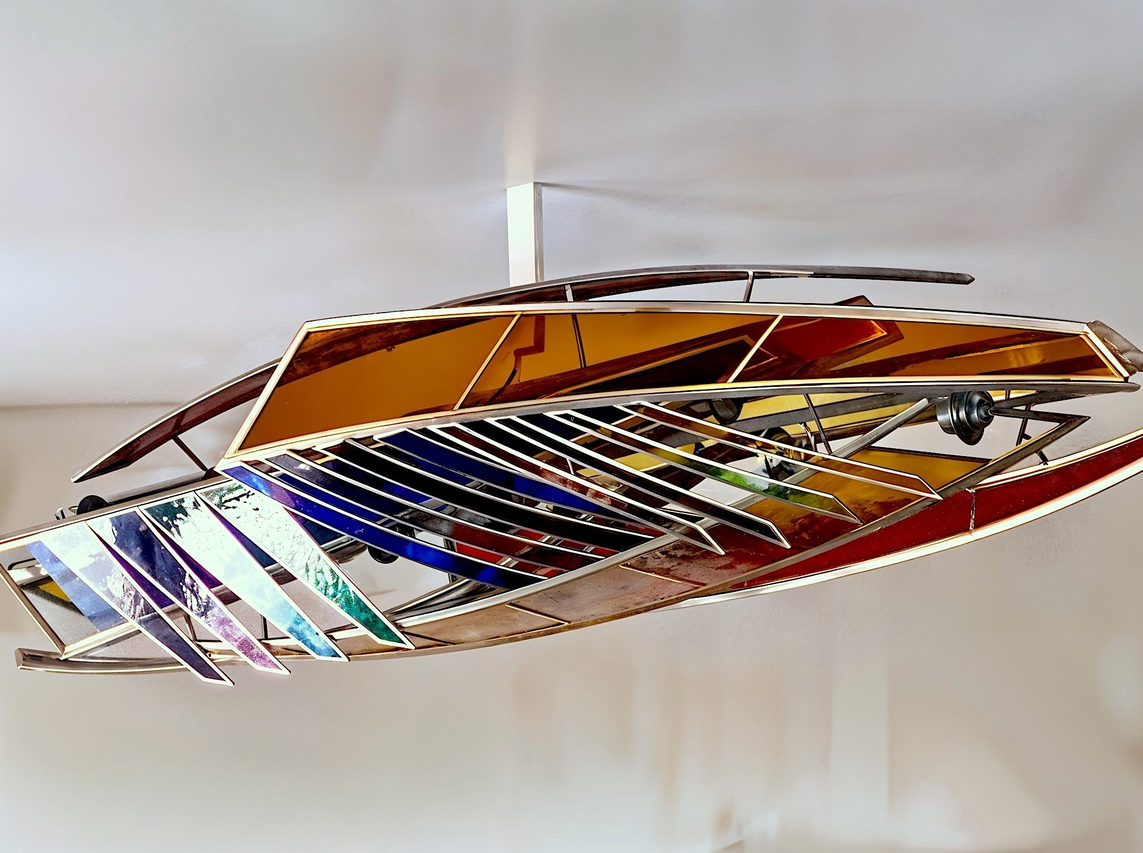
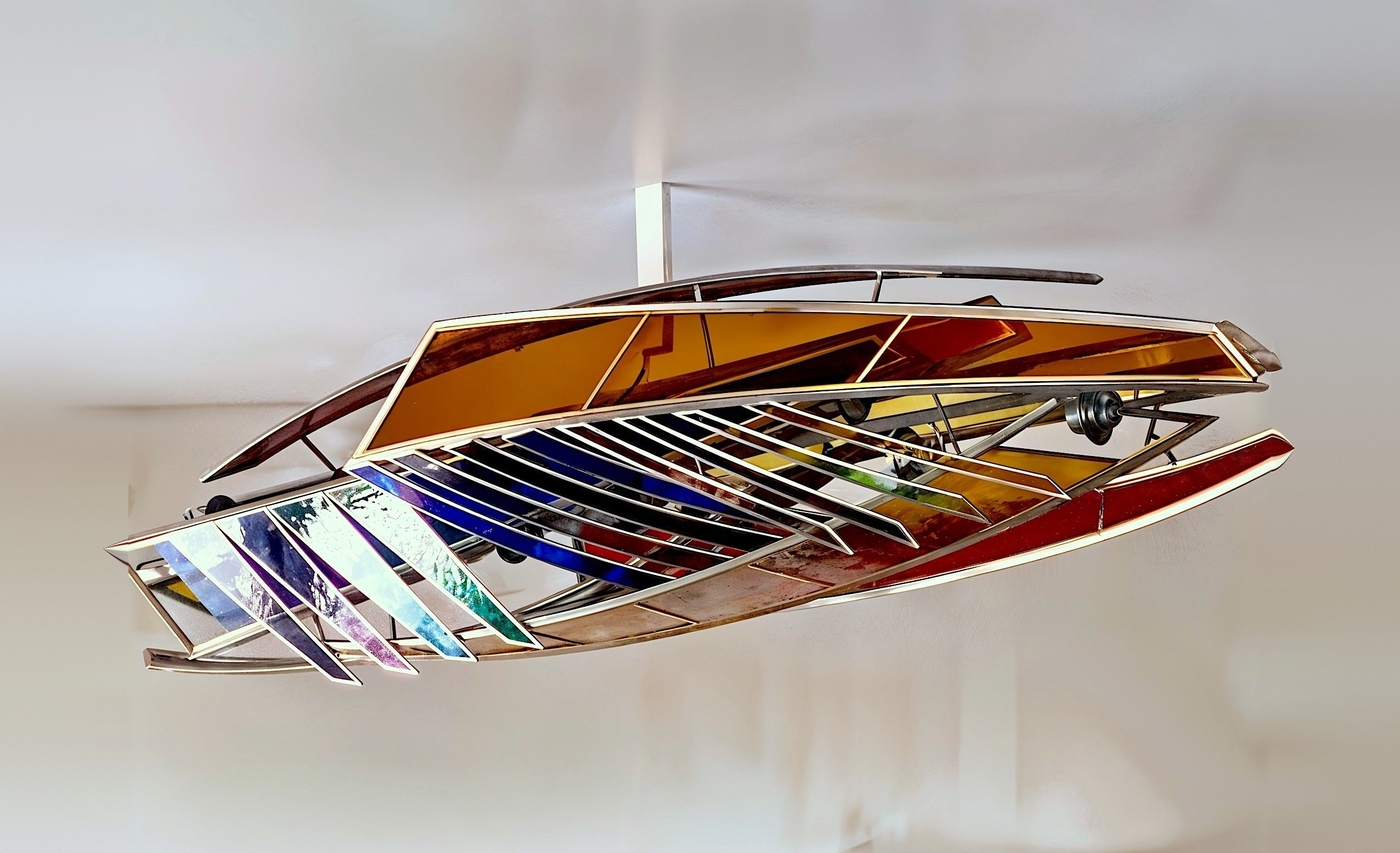
Glass lamp photo: ends completed after Arthi's sketch, free wall on both sides
The cut ends close smoothly (left frame into a point, top-right cap and the red bar into short
rounded tips), continuing the existing lines; plain wall added left and right. Full resolution
(2508 x 1528), all sizes regenerated, ?v bumped.

Claude-Session: https://claude.ai/code/session_01H5rr4vyQfECm49aUQdYU3c

diff --git a/fr/gallery/glass-lamp-sculpture/index.html b/fr/gallery/glass-lamp-sculpture/index.html
@@ -19,7 +19,7 @@
     <meta property="og:title" content="Frame Sculpting · 2021 — Vitrail d&#x27;Arthemii Ionaere">
     <meta property="og:description" content="Une sculpture lumineuse suspendue de la série Frame Sculpting, réalisée selon la même technique mixte que sa devancière de 2020. Du verre coloré…">
     <meta property="og:url" content="https://ionaere.com/fr/gallery/glass-lamp-sculpture/">
-    <meta property="og:image" content="https://ionaere.com/img/opt/2024-12-Arthemii-ionaere-lamp-fgj-1600.jpg?v=3">
+    <meta property="og:image" content="https://ionaere.com/img/opt/2024-12-Arthemii-ionaere-lamp-fgj-1600.jpg?v=4">
     <meta name="twitter:card" content="summary_large_image">
     <link rel="preconnect" href="https://fonts.googleapis.com">
     <link rel="preconnect" href="https://fonts.gstatic.com" crossorigin>
@@ -36,7 +36,7 @@
         }
     </style>
     <script type="application/ld+json">
-{"@context": "https://schema.org", "@type": "VisualArtwork", "name": "Frame Sculpting · 2021", "url": "https://ionaere.com/fr/gallery/glass-lamp-sculpture/", "image": "https://ionaere.com/img/opt/2024-12-Arthemii-ionaere-lamp-fgj-1600.jpg?v=3", "description": "Une sculpture lumineuse suspendue de la série Frame Sculpting, réalisée selon la même technique mixte que sa devancière de 2020. Du verre coloré thermoformé est serti dans une structure métallique à éclairage intégré ; l'œuvre est conçue pour être suspendue au plafond.", "artform": "Stained glass", "artMedium": "Glass", "creator": {"@type": "Person", "@id": "https://ionaere.com/#artist", "name": "Arthemii Ionaere", "url": "https://ionaere.com/"}}
+{"@context": "https://schema.org", "@type": "VisualArtwork", "name": "Frame Sculpting · 2021", "url": "https://ionaere.com/fr/gallery/glass-lamp-sculpture/", "image": "https://ionaere.com/img/opt/2024-12-Arthemii-ionaere-lamp-fgj-1600.jpg?v=4", "description": "Une sculpture lumineuse suspendue de la série Frame Sculpting, réalisée selon la même technique mixte que sa devancière de 2020. Du verre coloré thermoformé est serti dans une structure métallique à éclairage intégré ; l'œuvre est conçue pour être suspendue au plafond.", "artform": "Stained glass", "artMedium": "Glass", "creator": {"@type": "Person", "@id": "https://ionaere.com/#artist", "name": "Arthemii Ionaere", "url": "https://ionaere.com/"}}
     </script>
 </head>
 <body>
@@ -88,7 +88,7 @@
             <div class="container" style="max-width:1000px">
                 <a href="../" style="font-size:0.875rem;color:var(--text-secondary);display:inline-block;margin-bottom:var(--spacing-md)">← Retour à la galerie</a>
                 <div class="photo-view" style="border-radius:12px;overflow:hidden;margin-bottom:var(--spacing-md);background:var(--bg-alt)">
-                    <picture><source type="image/webp" srcset="../../../img/opt/2024-12-Arthemii-ionaere-lamp-fgj-800.webp?v=3 800w, ../../../img/opt/2024-12-Arthemii-ionaere-lamp-fgj-1600.webp?v=3 1600w, ../../../img/opt/2024-12-Arthemii-ionaere-lamp-fgj-2400.webp?v=3 2400w" sizes="(max-width: 1000px) 100vw, 1000px"><img src="../../../img/opt/2024-12-Arthemii-ionaere-lamp-fgj-1600.jpg?v=3" alt="Frame Sculpting · 2021 — Arthemii Ionaere" style="width:100%;display:block"></picture>
+                    <picture><source type="image/webp" srcset="../../../img/opt/2024-12-Arthemii-ionaere-lamp-fgj-800.webp?v=4 800w, ../../../img/opt/2024-12-Arthemii-ionaere-lamp-fgj-1600.webp?v=4 1600w, ../../../img/opt/2024-12-Arthemii-ionaere-lamp-fgj-2400.webp?v=4 2400w" sizes="(max-width: 1000px) 100vw, 1000px"><img src="../../../img/opt/2024-12-Arthemii-ionaere-lamp-fgj-1600.jpg?v=4" alt="Frame Sculpting · 2021 — Arthemii Ionaere" style="width:100%;display:block"></picture>
                     <a class="photo-view__arrow photo-view__arrow--prev" href="../prism-sculpture/" rel="prev" aria-label="Previous photo: Falling Shadows à Enter the Void"><svg viewBox="0 0 24 24" aria-hidden="true"><path d="M15 5l-7 7 7 7"/></svg></a>
                     <a class="photo-view__arrow photo-view__arrow--next" href="../glass-artwork-detail/" rel="next" aria-label="Next photo: Frame Sculpting · 2018"><svg viewBox="0 0 24 24" aria-hidden="true"><path d="M9 5l7 7-7 7"/></svg></a>
                 </div>

diff --git a/it/gallery/glass-lamp-sculpture/index.html b/it/gallery/glass-lamp-sculpture/index.html
@@ -19,7 +19,7 @@
     <meta property="og:title" content="Frame Sculpting · 2021 — Vetrata artistica di Arthemii Ionaere">
     <meta property="og:description" content="Una scultura luminosa sospesa della serie Frame Sculpting, realizzata con la stessa tecnica mista della precedente del 2020. Vetro colorato curvato è…">
     <meta property="og:url" content="https://ionaere.com/it/gallery/glass-lamp-sculpture/">
-    <meta property="og:image" content="https://ionaere.com/img/opt/2024-12-Arthemii-ionaere-lamp-fgj-1600.jpg?v=3">
+    <meta property="og:image" content="https://ionaere.com/img/opt/2024-12-Arthemii-ionaere-lamp-fgj-1600.jpg?v=4">
     <meta name="twitter:card" content="summary_large_image">
     <link rel="preconnect" href="https://fonts.googleapis.com">
     <link rel="preconnect" href="https://fonts.gstatic.com" crossorigin>
@@ -36,7 +36,7 @@
         }
     </style>
     <script type="application/ld+json">
-{"@context": "https://schema.org", "@type": "VisualArtwork", "name": "Frame Sculpting · 2021", "url": "https://ionaere.com/it/gallery/glass-lamp-sculpture/", "image": "https://ionaere.com/img/opt/2024-12-Arthemii-ionaere-lamp-fgj-1600.jpg?v=3", "description": "Una scultura luminosa sospesa della serie Frame Sculpting, realizzata con la stessa tecnica mista della precedente del 2020. Vetro colorato curvato è incastonato in una struttura metallica con illuminazione integrata; l'opera è pensata per essere appesa al soffitto.", "artform": "Stained glass", "artMedium": "Glass", "creator": {"@type": "Person", "@id": "https://ionaere.com/#artist", "name": "Arthemii Ionaere", "url": "https://ionaere.com/"}}
+{"@context": "https://schema.org", "@type": "VisualArtwork", "name": "Frame Sculpting · 2021", "url": "https://ionaere.com/it/gallery/glass-lamp-sculpture/", "image": "https://ionaere.com/img/opt/2024-12-Arthemii-ionaere-lamp-fgj-1600.jpg?v=4", "description": "Una scultura luminosa sospesa della serie Frame Sculpting, realizzata con la stessa tecnica mista della precedente del 2020. Vetro colorato curvato è incastonato in una struttura metallica con illuminazione integrata; l'opera è pensata per essere appesa al soffitto.", "artform": "Stained glass", "artMedium": "Glass", "creator": {"@type": "Person", "@id": "https://ionaere.com/#artist", "name": "Arthemii Ionaere", "url": "https://ionaere.com/"}}
     </script>
 </head>
 <body>
@@ -88,7 +88,7 @@
             <div class="container" style="max-width:1000px">
                 <a href="../" style="font-size:0.875rem;color:var(--text-secondary);display:inline-block;margin-bottom:var(--spacing-md)">← Torna alla galleria</a>
                 <div class="photo-view" style="border-radius:12px;overflow:hidden;margin-bottom:var(--spacing-md);background:var(--bg-alt)">
-                    <picture><source type="image/webp" srcset="../../../img/opt/2024-12-Arthemii-ionaere-lamp-fgj-800.webp?v=3 800w, ../../../img/opt/2024-12-Arthemii-ionaere-lamp-fgj-1600.webp?v=3 1600w, ../../../img/opt/2024-12-Arthemii-ionaere-lamp-fgj-2400.webp?v=3 2400w" sizes="(max-width: 1000px) 100vw, 1000px"><img src="../../../img/opt/2024-12-Arthemii-ionaere-lamp-fgj-1600.jpg?v=3" alt="Frame Sculpting · 2021 — Arthemii Ionaere" style="width:100%;display:block"></picture>
+                    <picture><source type="image/webp" srcset="../../../img/opt/2024-12-Arthemii-ionaere-lamp-fgj-800.webp?v=4 800w, ../../../img/opt/2024-12-Arthemii-ionaere-lamp-fgj-1600.webp?v=4 1600w, ../../../img/opt/2024-12-Arthemii-ionaere-lamp-fgj-2400.webp?v=4 2400w" sizes="(max-width: 1000px) 100vw, 1000px"><img src="../../../img/opt/2024-12-Arthemii-ionaere-lamp-fgj-1600.jpg?v=4" alt="Frame Sculpting · 2021 — Arthemii Ionaere" style="width:100%;display:block"></picture>
                     <a class="photo-view__arrow photo-view__arrow--prev" href="../prism-sculpture/" rel="prev" aria-label="Previous photo: Falling Shadows a Enter the Void"><svg viewBox="0 0 24 24" aria-hidden="true"><path d="M15 5l-7 7 7 7"/></svg></a>
                     <a class="photo-view__arrow photo-view__arrow--next" href="../glass-artwork-detail/" rel="next" aria-label="Next photo: Frame Sculpting · 2018"><svg viewBox="0 0 24 24" aria-hidden="true"><path d="M9 5l7 7-7 7"/></svg></a>
                 </div>

diff --git a/es/gallery/glass-lamp-sculpture/index.html b/es/gallery/glass-lamp-sculpture/index.html
@@ -19,7 +19,7 @@
     <meta property="og:title" content="Frame Sculpting · 2021 — Vitral de Arthemii Ionaere">
     <meta property="og:description" content="Una escultura de luz suspendida de la serie Frame Sculpting, realizada con la misma técnica mixta de vitral que su predecesora de 2020. Vidrio de color…">
     <meta property="og:url" content="https://ionaere.com/es/gallery/glass-lamp-sculpture/">
-    <meta property="og:image" content="https://ionaere.com/img/opt/2024-12-Arthemii-ionaere-lamp-fgj-1600.jpg?v=3">
+    <meta property="og:image" content="https://ionaere.com/img/opt/2024-12-Arthemii-ionaere-lamp-fgj-1600.jpg?v=4">
     <meta name="twitter:card" content="summary_large_image">
     <link rel="preconnect" href="https://fonts.googleapis.com">
     <link rel="preconnect" href="https://fonts.gstatic.com" crossorigin>
@@ -36,7 +36,7 @@
         }
     </style>
     <script type="application/ld+json">
-{"@context": "https://schema.org", "@type": "VisualArtwork", "name": "Frame Sculpting · 2021", "url": "https://ionaere.com/es/gallery/glass-lamp-sculpture/", "image": "https://ionaere.com/img/opt/2024-12-Arthemii-ionaere-lamp-fgj-1600.jpg?v=3", "description": "Una escultura de luz suspendida de la serie Frame Sculpting, realizada con la misma técnica mixta de vitral que su predecesora de 2020. Vidrio de color curvado se engasta en una estructura metálica con iluminación integrada; está pensada para colgar del techo.", "artform": "Stained glass", "artMedium": "Glass", "creator": {"@type": "Person", "@id": "https://ionaere.com/#artist", "name": "Arthemii Ionaere", "url": "https://ionaere.com/"}}
+{"@context": "https://schema.org", "@type": "VisualArtwork", "name": "Frame Sculpting · 2021", "url": "https://ionaere.com/es/gallery/glass-lamp-sculpture/", "image": "https://ionaere.com/img/opt/2024-12-Arthemii-ionaere-lamp-fgj-1600.jpg?v=4", "description": "Una escultura de luz suspendida de la serie Frame Sculpting, realizada con la misma técnica mixta de vitral que su predecesora de 2020. Vidrio de color curvado se engasta en una estructura metálica con iluminación integrada; está pensada para colgar del techo.", "artform": "Stained glass", "artMedium": "Glass", "creator": {"@type": "Person", "@id": "https://ionaere.com/#artist", "name": "Arthemii Ionaere", "url": "https://ionaere.com/"}}
     </script>
 </head>
 <body>
@@ -88,7 +88,7 @@
             <div class="container" style="max-width:1000px">
                 <a href="../" style="font-size:0.875rem;color:var(--text-secondary);display:inline-block;margin-bottom:var(--spacing-md)">← Volver a la galería</a>
                 <div class="photo-view" style="border-radius:12px;overflow:hidden;margin-bottom:var(--spacing-md);background:var(--bg-alt)">
-                    <picture><source type="image/webp" srcset="../../../img/opt/2024-12-Arthemii-ionaere-lamp-fgj-800.webp?v=3 800w, ../../../img/opt/2024-12-Arthemii-ionaere-lamp-fgj-1600.webp?v=3 1600w, ../../../img/opt/2024-12-Arthemii-ionaere-lamp-fgj-2400.webp?v=3 2400w" sizes="(max-width: 1000px) 100vw, 1000px"><img src="../../../img/opt/2024-12-Arthemii-ionaere-lamp-fgj-1600.jpg?v=3" alt="Frame Sculpting · 2021 — Arthemii Ionaere" style="width:100%;display:block"></picture>
+                    <picture><source type="image/webp" srcset="../../../img/opt/2024-12-Arthemii-ionaere-lamp-fgj-800.webp?v=4 800w, ../../../img/opt/2024-12-Arthemii-ionaere-lamp-fgj-1600.webp?v=4 1600w, ../../../img/opt/2024-12-Arthemii-ionaere-lamp-fgj-2400.webp?v=4 2400w" sizes="(max-width: 1000px) 100vw, 1000px"><img src="../../../img/opt/2024-12-Arthemii-ionaere-lamp-fgj-1600.jpg?v=4" alt="Frame Sculpting · 2021 — Arthemii Ionaere" style="width:100%;display:block"></picture>
                     <a class="photo-view__arrow photo-view__arrow--prev" href="../prism-sculpture/" rel="prev" aria-label="Previous photo: Falling Shadows en Enter the Void"><svg viewBox="0 0 24 24" aria-hidden="true"><path d="M15 5l-7 7 7 7"/></svg></a>
                     <a class="photo-view__arrow photo-view__arrow--next" href="../glass-artwork-detail/" rel="next" aria-label="Next photo: Frame Sculpting · 2018"><svg viewBox="0 0 24 24" aria-hidden="true"><path d="M9 5l7 7-7 7"/></svg></a>
                 </div>

diff --git a/de/index.html b/de/index.html
@@ -3456,7 +3456,7 @@
         <div class="section__divider"></div>
 
         <!-- ========== GALLERY ========== -->
-        <section class="section" id="gallery" data-thumbs="../img/opt/2024-12-Arthemii-Ionaere-visual-light-installation-with-deep-coloured-shado-scaled-800.webp|../|../img/opt/2024-12-Arthemii-ionaere-lamp-fgj-800.webp?v=3|../img/opt/2024-12-Arthemii-Ionaere-Shteryit-800.webp|../img/opt/2024-12-IMG_9199-Enhanced-NR-scaled-800.webp|../img/opt/2024-12-IMG_9484-Enhanced-NR-scaled-800.webp|../img/opt/2024-05-IMG_0179-scaled-800.webp?v=2|../img/opt/2024-05-IMG_7198-scaled-800.webp?v=3" data-thumb="../img/opt/2024-12-Arthemii-Ionaere-visual-light-installation-with-deep-coloured-shado-scaled-800.webp">
+        <section class="section" id="gallery" data-thumbs="../img/opt/2024-12-Arthemii-Ionaere-visual-light-installation-with-deep-coloured-shado-scaled-800.webp|../|../img/opt/2024-12-Arthemii-ionaere-lamp-fgj-800.webp?v=4|../img/opt/2024-12-Arthemii-Ionaere-Shteryit-800.webp|../img/opt/2024-12-IMG_9199-Enhanced-NR-scaled-800.webp|../img/opt/2024-12-IMG_9484-Enhanced-NR-scaled-800.webp|../img/opt/2024-05-IMG_0179-scaled-800.webp?v=2|../img/opt/2024-05-IMG_7198-scaled-800.webp?v=3" data-thumb="../img/opt/2024-12-Arthemii-Ionaere-visual-light-installation-with-deep-coloured-shado-scaled-800.webp">
             <div class="container">
                 <header class="section__header reveal">
                     <div class="section__label" data-i18n="gallery_label">Galerie</div>
@@ -3476,7 +3476,7 @@
                     </div>
                     <div class="gallery__row gallery__row--wide">
                         <div class="gallery__item" style="--r:1.333"><picture><source type="image/webp" data-srcset="../img/opt/2024-12-Arthemii-Ionaere-prizmas-800.webp 800w, ../img/opt/2024-12-Arthemii-Ionaere-prizmas-1600.webp 1600w, ../img/opt/2024-12-Arthemii-Ionaere-prizmas-2400.webp 2400w" sizes="(max-width: 640px) 90vw, (max-width: 1024px) 50vw, 800px"><img data-src="../img/opt/2024-12-Arthemii-Ionaere-prizmas-1600.jpg" alt="Prism sculpture — stained glass by Arthemii Ionaere" loading="lazy" decoding="async"></picture><span class="gallery__caption">Falling Shadows bei Enter the Void <span>· 2023</span></span></div>
-                        <div class="gallery__item" style="--r:1.34"><picture><source type="image/webp" data-srcset="../img/opt/2024-12-Arthemii-ionaere-lamp-fgj-800.webp?v=3 800w, ../img/opt/2024-12-Arthemii-ionaere-lamp-fgj-1600.webp?v=3 1600w, ../img/opt/2024-12-Arthemii-ionaere-lamp-fgj-2400.webp?v=3 2400w" sizes="(max-width: 640px) 90vw, (max-width: 1024px) 50vw, 800px"><img data-src="../img/opt/2024-12-Arthemii-ionaere-lamp-fgj-1600.jpg?v=3" alt="Glass lamp sculpture — stained glass by Arthemii Ionaere" loading="lazy" decoding="async"></picture><span class="gallery__caption">Frame Sculpting · 2021</span></div>
+                        <div class="gallery__item" style="--r:1.34"><picture><source type="image/webp" data-srcset="../img/opt/2024-12-Arthemii-ionaere-lamp-fgj-800.webp?v=4 800w, ../img/opt/2024-12-Arthemii-ionaere-lamp-fgj-1600.webp?v=4 1600w, ../img/opt/2024-12-Arthemii-ionaere-lamp-fgj-2400.webp?v=4 2400w" sizes="(max-width: 640px) 90vw, (max-width: 1024px) 50vw, 800px"><img data-src="../img/opt/2024-12-Arthemii-ionaere-lamp-fgj-1600.jpg?v=4" alt="Glass lamp sculpture — stained glass by Arthemii Ionaere" loading="lazy" decoding="async"></picture><span class="gallery__caption">Frame Sculpting · 2021</span></div>
                         <div class="gallery__item" style="--r:1.333"><picture><source type="image/webp" data-srcset="../img/opt/2024-02-06C52AD8-82B2-46BB-B951-3B6548D050B4-800.webp 800w, ../img/opt/2024-02-06C52AD8-82B2-46BB-B951-3B6548D050B4-1600.webp 1600w, ../img/opt/2024-02-06C52AD8-82B2-46BB-B951-3B6548D050B4-2400.webp 2400w" sizes="(max-width: 640px) 90vw, (max-width: 1024px) 50vw, 800px"><img data-src="../img/opt/2024-02-06C52AD8-82B2-46BB-B951-3B6548D050B4-1600.jpg" alt="Glass artwork detail — stained glass by Arthemii Ionaere" loading="lazy" decoding="async"></picture><span class="gallery__caption">Frame Sculpting · 2018</span></div>
                     </div>
                     <div class="gallery__row gallery__row--wide">

diff --git a/es/index.html b/es/index.html
@@ -3456,7 +3456,7 @@
         <div class="section__divider"></div>
 
         <!-- ========== GALLERY ========== -->
-        <section class="section" id="gallery" data-thumbs="../img/opt/2024-12-Arthemii-Ionaere-visual-light-installation-with-deep-coloured-shado-scaled-800.webp|../|../img/opt/2024-12-Arthemii-ionaere-lamp-fgj-800.webp?v=3|../img/opt/2024-12-Arthemii-Ionaere-Shteryit-800.webp|../img/opt/2024-12-IMG_9199-Enhanced-NR-scaled-800.webp|../img/opt/2024-12-IMG_9484-Enhanced-NR-scaled-800.webp|../img/opt/2024-05-IMG_0179-scaled-800.webp?v=2|../img/opt/2024-05-IMG_7198-scaled-800.webp?v=3" data-thumb="../img/opt/2024-12-Arthemii-Ionaere-visual-light-installation-with-deep-coloured-shado-scaled-800.webp">
+        <section class="section" id="gallery" data-thumbs="../img/opt/2024-12-Arthemii-Ionaere-visual-light-installation-with-deep-coloured-shado-scaled-800.webp|../|../img/opt/2024-12-Arthemii-ionaere-lamp-fgj-800.webp?v=4|../img/opt/2024-12-Arthemii-Ionaere-Shteryit-800.webp|../img/opt/2024-12-IMG_9199-Enhanced-NR-scaled-800.webp|../img/opt/2024-12-IMG_9484-Enhanced-NR-scaled-800.webp|../img/opt/2024-05-IMG_0179-scaled-800.webp?v=2|../img/opt/2024-05-IMG_7198-scaled-800.webp?v=3" data-thumb="../img/opt/2024-12-Arthemii-Ionaere-visual-light-installation-with-deep-coloured-shado-scaled-800.webp">
             <div class="container">
                 <header class="section__header reveal">
                     <div class="section__label" data-i18n="gallery_label">Galería</div>
@@ -3476,7 +3476,7 @@
                     </div>
                     <div class="gallery__row gallery__row--wide">
                         <div class="gallery__item" style="--r:1.333"><picture><source type="image/webp" data-srcset="../img/opt/2024-12-Arthemii-Ionaere-prizmas-800.webp 800w, ../img/opt/2024-12-Arthemii-Ionaere-prizmas-1600.webp 1600w, ../img/opt/2024-12-Arthemii-Ionaere-prizmas-2400.webp 2400w" sizes="(max-width: 640px) 90vw, (max-width: 1024px) 50vw, 800px"><img data-src="../img/opt/2024-12-Arthemii-Ionaere-prizmas-1600.jpg" alt="Prism sculpture — stained glass by Arthemii Ionaere" loading="lazy" decoding="async"></picture><span class="gallery__caption">Falling Shadows en Enter the Void <span>· 2023</span></span></div>
-                        <div class="gallery__item" style="--r:1.34"><picture><source type="image/webp" data-srcset="../img/opt/2024-12-Arthemii-ionaere-lamp-fgj-800.webp?v=3 800w, ../img/opt/2024-12-Arthemii-ionaere-lamp-fgj-1600.webp?v=3 1600w, ../img/opt/2024-12-Arthemii-ionaere-lamp-fgj-2400.webp?v=3 2400w" sizes="(max-width: 640px) 90vw, (max-width: 1024px) 50vw, 800px"><img data-src="../img/opt/2024-12-Arthemii-ionaere-lamp-fgj-1600.jpg?v=3" alt="Glass lamp sculpture — stained glass by Arthemii Ionaere" loading="lazy" decoding="async"></picture><span class="gallery__caption">Frame Sculpting · 2021</span></div>
+                        <div class="gallery__item" style="--r:1.34"><picture><source type="image/webp" data-srcset="../img/opt/2024-12-Arthemii-ionaere-lamp-fgj-800.webp?v=4 800w, ../img/opt/2024-12-Arthemii-ionaere-lamp-fgj-1600.webp?v=4 1600w, ../img/opt/2024-12-Arthemii-ionaere-lamp-fgj-2400.webp?v=4 2400w" sizes="(max-width: 640px) 90vw, (max-width: 1024px) 50vw, 800px"><img data-src="../img/opt/2024-12-Arthemii-ionaere-lamp-fgj-1600.jpg?v=4" alt="Glass lamp sculpture — stained glass by Arthemii Ionaere" loading="lazy" decoding="async"></picture><span class="gallery__caption">Frame Sculpting · 2021</span></div>
                         <div class="gallery__item" style="--r:1.333"><picture><source type="image/webp" data-srcset="../img/opt/2024-02-06C52AD8-82B2-46BB-B951-3B6548D050B4-800.webp 800w, ../img/opt/2024-02-06C52AD8-82B2-46BB-B951-3B6548D050B4-1600.webp 1600w, ../img/opt/2024-02-06C52AD8-82B2-46BB-B951-3B6548D050B4-2400.webp 2400w" sizes="(max-width: 640px) 90vw, (max-width: 1024px) 50vw, 800px"><img data-src="../img/opt/2024-02-06C52AD8-82B2-46BB-B951-3B6548D050B4-1600.jpg" alt="Glass artwork detail — stained glass by Arthemii Ionaere" loading="lazy" decoding="async"></picture><span class="gallery__caption">Frame Sculpting · 2018</span></div>
                     </div>
                     <div class="gallery__row gallery__row--wide">

diff --git a/fr/index.html b/fr/index.html
@@ -3456,7 +3456,7 @@
         <div class="section__divider"></div>
 
         <!-- ========== GALLERY ========== -->
-        <section class="section" id="gallery" data-thumbs="../img/opt/2024-12-Arthemii-Ionaere-visual-light-installation-with-deep-coloured-shado-scaled-800.webp|../|../img/opt/2024-12-Arthemii-ionaere-lamp-fgj-800.webp?v=3|../img/opt/2024-12-Arthemii-Ionaere-Shteryit-800.webp|../img/opt/2024-12-IMG_9199-Enhanced-NR-scaled-800.webp|../img/opt/2024-12-IMG_9484-Enhanced-NR-scaled-800.webp|../img/opt/2024-05-IMG_0179-scaled-800.webp?v=2|../img/opt/2024-05-IMG_7198-scaled-800.webp?v=3" data-thumb="../img/opt/2024-12-Arthemii-Ionaere-visual-light-installation-with-deep-coloured-shado-scaled-800.webp">
+        <section class="section" id="gallery" data-thumbs="../img/opt/2024-12-Arthemii-Ionaere-visual-light-installation-with-deep-coloured-shado-scaled-800.webp|../|../img/opt/2024-12-Arthemii-ionaere-lamp-fgj-800.webp?v=4|../img/opt/2024-12-Arthemii-Ionaere-Shteryit-800.webp|../img/opt/2024-12-IMG_9199-Enhanced-NR-scaled-800.webp|../img/opt/2024-12-IMG_9484-Enhanced-NR-scaled-800.webp|../img/opt/2024-05-IMG_0179-scaled-800.webp?v=2|../img/opt/2024-05-IMG_7198-scaled-800.webp?v=3" data-thumb="../img/opt/2024-12-Arthemii-Ionaere-visual-light-installation-with-deep-coloured-shado-scaled-800.webp">
             <div class="container">
                 <header class="section__header reveal">
                     <div class="section__label" data-i18n="gallery_label">Galerie</div>
@@ -3476,7 +3476,7 @@
                     </div>
                     <div class="gallery__row gallery__row--wide">
                         <div class="gallery__item" style="--r:1.333"><picture><source type="image/webp" data-srcset="../img/opt/2024-12-Arthemii-Ionaere-prizmas-800.webp 800w, ../img/opt/2024-12-Arthemii-Ionaere-prizmas-1600.webp 1600w, ../img/opt/2024-12-Arthemii-Ionaere-prizmas-2400.webp 2400w" sizes="(max-width: 640px) 90vw, (max-width: 1024px) 50vw, 800px"><img data-src="../img/opt/2024-12-Arthemii-Ionaere-prizmas-1600.jpg" alt="Prism sculpture — stained glass by Arthemii Ionaere" loading="lazy" decoding="async"></picture><span class="gallery__caption">Falling Shadows à Enter the Void <span>· 2023</span></span></div>
-                        <div class="gallery__item" style="--r:1.34"><picture><source type="image/webp" data-srcset="../img/opt/2024-12-Arthemii-ionaere-lamp-fgj-800.webp?v=3 800w, ../img/opt/2024-12-Arthemii-ionaere-lamp-fgj-1600.webp?v=3 1600w, ../img/opt/2024-12-Arthemii-ionaere-lamp-fgj-2400.webp?v=3 2400w" sizes="(max-width: 640px) 90vw, (max-width: 1024px) 50vw, 800px"><img data-src="../img/opt/2024-12-Arthemii-ionaere-lamp-fgj-1600.jpg?v=3" alt="Glass lamp sculpture — stained glass by Arthemii Ionaere" loading="lazy" decoding="async"></picture><span class="gallery__caption">Frame Sculpting · 2021</span></div>
+                        <div class="gallery__item" style="--r:1.34"><picture><source type="image/webp" data-srcset="../img/opt/2024-12-Arthemii-ionaere-lamp-fgj-800.webp?v=4 800w, ../img/opt/2024-12-Arthemii-ionaere-lamp-fgj-1600.webp?v=4 1600w, ../img/opt/2024-12-Arthemii-ionaere-lamp-fgj-2400.webp?v=4 2400w" sizes="(max-width: 640px) 90vw, (max-width: 1024px) 50vw, 800px"><img data-src="../img/opt/2024-12-Arthemii-ionaere-lamp-fgj-1600.jpg?v=4" alt="Glass lamp sculpture — stained glass by Arthemii Ionaere" loading="lazy" decoding="async"></picture><span class="gallery__caption">Frame Sculpting · 2021</span></div>
                         <div class="gallery__item" style="--r:1.333"><picture><source type="image/webp" data-srcset="../img/opt/2024-02-06C52AD8-82B2-46BB-B951-3B6548D050B4-800.webp 800w, ../img/opt/2024-02-06C52AD8-82B2-46BB-B951-3B6548D050B4-1600.webp 1600w, ../img/opt/2024-02-06C52AD8-82B2-46BB-B951-3B6548D050B4-2400.webp 2400w" sizes="(max-width: 640px) 90vw, (max-width: 1024px) 50vw, 800px"><img data-src="../img/opt/2024-02-06C52AD8-82B2-46BB-B951-3B6548D050B4-1600.jpg" alt="Glass artwork detail — stained glass by Arthemii Ionaere" loading="lazy" decoding="async"></picture><span class="gallery__caption">Frame Sculpting · 2018</span></div>
                     </div>
                     <div class="gallery__row gallery__row--wide">

diff --git a/it/index.html b/it/index.html
@@ -3456,7 +3456,7 @@
         <div class="section__divider"></div>
 
         <!-- ========== GALLERY ========== -->
-        <section class="section" id="gallery" data-thumbs="../img/opt/2024-12-Arthemii-Ionaere-visual-light-installation-with-deep-coloured-shado-scaled-800.webp|../|../img/opt/2024-12-Arthemii-ionaere-lamp-fgj-800.webp?v=3|../img/opt/2024-12-Arthemii-Ionaere-Shteryit-800.webp|../img/opt/2024-12-IMG_9199-Enhanced-NR-scaled-800.webp|../img/opt/2024-12-IMG_9484-Enhanced-NR-scaled-800.webp|../img/opt/2024-05-IMG_0179-scaled-800.webp?v=2|../img/opt/2024-05-IMG_7198-scaled-800.webp?v=3" data-thumb="../img/opt/2024-12-Arthemii-Ionaere-visual-light-installation-with-deep-coloured-shado-scaled-800.webp">
+        <section class="section" id="gallery" data-thumbs="../img/opt/2024-12-Arthemii-Ionaere-visual-light-installation-with-deep-coloured-shado-scaled-800.webp|../|../img/opt/2024-12-Arthemii-ionaere-lamp-fgj-800.webp?v=4|../img/opt/2024-12-Arthemii-Ionaere-Shteryit-800.webp|../img/opt/2024-12-IMG_9199-Enhanced-NR-scaled-800.webp|../img/opt/2024-12-IMG_9484-Enhanced-NR-scaled-800.webp|../img/opt/2024-05-IMG_0179-scaled-800.webp?v=2|../img/opt/2024-05-IMG_7198-scaled-800.webp?v=3" data-thumb="../img/opt/2024-12-Arthemii-Ionaere-visual-light-installation-with-deep-coloured-shado-scaled-800.webp">
             <div class="container">
                 <header class="section__header reveal">
                     <div class="section__label" data-i18n="gallery_label">Galleria</div>
@@ -3476,7 +3476,7 @@
                     </div>
                     <div class="gallery__row gallery__row--wide">
                         <div class="gallery__item" style="--r:1.333"><picture><source type="image/webp" data-srcset="../img/opt/2024-12-Arthemii-Ionaere-prizmas-800.webp 800w, ../img/opt/2024-12-Arthemii-Ionaere-prizmas-1600.webp 1600w, ../img/opt/2024-12-Arthemii-Ionaere-prizmas-2400.webp 2400w" sizes="(max-width: 640px) 90vw, (max-width: 1024px) 50vw, 800px"><img data-src="../img/opt/2024-12-Arthemii-Ionaere-prizmas-1600.jpg" alt="Prism sculpture — stained glass by Arthemii Ionaere" loading="lazy" decoding="async"></picture><span class="gallery__caption">Falling Shadows a Enter the Void <span>· 2023</span></span></div>
-                        <div class="gallery__item" style="--r:1.34"><picture><source type="image/webp" data-srcset="../img/opt/2024-12-Arthemii-ionaere-lamp-fgj-800.webp?v=3 800w, ../img/opt/2024-12-Arthemii-ionaere-lamp-fgj-1600.webp?v=3 1600w, ../img/opt/2024-12-Arthemii-ionaere-lamp-fgj-2400.webp?v=3 2400w" sizes="(max-width: 640px) 90vw, (max-width: 1024px) 50vw, 800px"><img data-src="../img/opt/2024-12-Arthemii-ionaere-lamp-fgj-1600.jpg?v=3" alt="Glass lamp sculpture — stained glass by Arthemii Ionaere" loading="lazy" decoding="async"></picture><span class="gallery__caption">Frame Sculpting · 2021</span></div>
+                        <div class="gallery__item" style="--r:1.34"><picture><source type="image/webp" data-srcset="../img/opt/2024-12-Arthemii-ionaere-lamp-fgj-800.webp?v=4 800w, ../img/opt/2024-12-Arthemii-ionaere-lamp-fgj-1600.webp?v=4 1600w, ../img/opt/2024-12-Arthemii-ionaere-lamp-fgj-2400.webp?v=4 2400w" sizes="(max-width: 640px) 90vw, (max-width: 1024px) 50vw, 800px"><img data-src="../img/opt/2024-12-Arthemii-ionaere-lamp-fgj-1600.jpg?v=4" alt="Glass lamp sculpture — stained glass by Arthemii Ionaere" loading="lazy" decoding="async"></picture><span class="gallery__caption">Frame Sculpting · 2021</span></div>
                         <div class="gallery__item" style="--r:1.333"><picture><source type="image/webp" data-srcset="../img/opt/2024-02-06C52AD8-82B2-46BB-B951-3B6548D050B4-800.webp 800w, ../img/opt/2024-02-06C52AD8-82B2-46BB-B951-3B6548D050B4-1600.webp 1600w, ../img/opt/2024-02-06C52AD8-82B2-46BB-B951-3B6548D050B4-2400.webp 2400w" sizes="(max-width: 640px) 90vw, (max-width: 1024px) 50vw, 800px"><img data-src="../img/opt/2024-02-06C52AD8-82B2-46BB-B951-3B6548D050B4-1600.jpg" alt="Glass artwork detail — stained glass by Arthemii Ionaere" loading="lazy" decoding="async"></picture><span class="gallery__caption">Frame Sculpting · 2018</span></div>
                     </div>
                     <div class="gallery__row gallery__row--wide">

diff --git a/de/gallery/glass-lamp-sculpture/index.html b/de/gallery/glass-lamp-sculpture/index.html
@@ -19,7 +19,7 @@
     <meta property="og:title" content="Frame Sculpting · 2021 — Glaskunst von Arthemii Ionaere">
     <meta property="og:description" content="Eine hängende Lichtskulptur aus der Serie Frame Sculpting, gefertigt in derselben Mischtechnik wie ihre Vorgängerin von 2020. Gebogenes Farbglas sitzt in…">
     <meta property="og:url" content="https://ionaere.com/de/gallery/glass-lamp-sculpture/">
-    <meta property="og:image" content="https://ionaere.com/img/opt/2024-12-Arthemii-ionaere-lamp-fgj-1600.jpg?v=3">
+    <meta property="og:image" content="https://ionaere.com/img/opt/2024-12-Arthemii-ionaere-lamp-fgj-1600.jpg?v=4">
     <meta name="twitter:card" content="summary_large_image">
     <link rel="preconnect" href="https://fonts.googleapis.com">
     <link rel="preconnect" href="https://fonts.gstatic.com" crossorigin>
@@ -36,7 +36,7 @@
         }
     </style>
     <script type="application/ld+json">
-{"@context": "https://schema.org", "@type": "VisualArtwork", "name": "Frame Sculpting · 2021", "url": "https://ionaere.com/de/gallery/glass-lamp-sculpture/", "image": "https://ionaere.com/img/opt/2024-12-Arthemii-ionaere-lamp-fgj-1600.jpg?v=3", "description": "Eine hängende Lichtskulptur aus der Serie Frame Sculpting, gefertigt in derselben Mischtechnik wie ihre Vorgängerin von 2020. Gebogenes Farbglas sitzt in einem Metallrahmen mit eingebauter Beleuchtung; die Arbeit ist zum Aufhängen an der Decke gedacht.", "artform": "Stained glass", "artMedium": "Glass", "creator": {"@type": "Person", "@id": "https://ionaere.com/#artist", "name": "Arthemii Ionaere", "url": "https://ionaere.com/"}}
+{"@context": "https://schema.org", "@type": "VisualArtwork", "name": "Frame Sculpting · 2021", "url": "https://ionaere.com/de/gallery/glass-lamp-sculpture/", "image": "https://ionaere.com/img/opt/2024-12-Arthemii-ionaere-lamp-fgj-1600.jpg?v=4", "description": "Eine hängende Lichtskulptur aus der Serie Frame Sculpting, gefertigt in derselben Mischtechnik wie ihre Vorgängerin von 2020. Gebogenes Farbglas sitzt in einem Metallrahmen mit eingebauter Beleuchtung; die Arbeit ist zum Aufhängen an der Decke gedacht.", "artform": "Stained glass", "artMedium": "Glass", "creator": {"@type": "Person", "@id": "https://ionaere.com/#artist", "name": "Arthemii Ionaere", "url": "https://ionaere.com/"}}
     </script>
 </head>
 <body>
@@ -88,7 +88,7 @@
             <div class="container" style="max-width:1000px">
                 <a href="../" style="font-size:0.875rem;color:var(--text-secondary);display:inline-block;margin-bottom:var(--spacing-md)">← Zurück zur Galerie</a>
                 <div class="photo-view" style="border-radius:12px;overflow:hidden;margin-bottom:var(--spacing-md);background:var(--bg-alt)">
-                    <picture><source type="image/webp" srcset="../../../img/opt/2024-12-Arthemii-ionaere-lamp-fgj-800.webp?v=3 800w, ../../../img/opt/2024-12-Arthemii-ionaere-lamp-fgj-1600.webp?v=3 1600w, ../../../img/opt/2024-12-Arthemii-ionaere-lamp-fgj-2400.webp?v=3 2400w" sizes="(max-width: 1000px) 100vw, 1000px"><img src="../../../img/opt/2024-12-Arthemii-ionaere-lamp-fgj-1600.jpg?v=3" alt="Frame Sculpting · 2021 — Arthemii Ionaere" style="width:100%;display:block"></picture>
+                    <picture><source type="image/webp" srcset="../../../img/opt/2024-12-Arthemii-ionaere-lamp-fgj-800.webp?v=4 800w, ../../../img/opt/2024-12-Arthemii-ionaere-lamp-fgj-1600.webp?v=4 1600w, ../../../img/opt/2024-12-Arthemii-ionaere-lamp-fgj-2400.webp?v=4 2400w" sizes="(max-width: 1000px) 100vw, 1000px"><img src="../../../img/opt/2024-12-Arthemii-ionaere-lamp-fgj-1600.jpg?v=4" alt="Frame Sculpting · 2021 — Arthemii Ionaere" style="width:100%;display:block"></picture>
                     <a class="photo-view__arrow photo-view__arrow--prev" href="../prism-sculpture/" rel="prev" aria-label="Previous photo: Falling Shadows bei Enter the Void"><svg viewBox="0 0 24 24" aria-hidden="true"><path d="M15 5l-7 7 7 7"/></svg></a>
                     <a class="photo-view__arrow photo-view__arrow--next" href="../glass-artwork-detail/" rel="next" aria-label="Next photo: Frame Sculpting · 2018"><svg viewBox="0 0 24 24" aria-hidden="true"><path d="M9 5l7 7-7 7"/></svg></a>
                 </div>

diff --git a/gallery/glass-lamp-sculpture/index.html b/gallery/glass-lamp-sculpture/index.html
@@ -19,7 +19,7 @@
     <meta property="og:title" content="Frame Sculpting · 2021 — Stained Glass Art by Arthemii Ionaere">
     <meta property="og:description" content="A suspended light sculpture from the Frame Sculpting series, made in the same mixed stained-glass technique as its 2020 predecessor. Slumped coloured…">
     <meta property="og:url" content="https://ionaere.com/gallery/glass-lamp-sculpture/">
-    <meta property="og:image" content="https://ionaere.com/img/opt/2024-12-Arthemii-ionaere-lamp-fgj-1600.jpg?v=3">
+    <meta property="og:image" content="https://ionaere.com/img/opt/2024-12-Arthemii-ionaere-lamp-fgj-1600.jpg?v=4">
     <meta name="twitter:card" content="summary_large_image">
     <link rel="preconnect" href="https://fonts.googleapis.com">
     <link rel="preconnect" href="https://fonts.gstatic.com" crossorigin>
@@ -36,7 +36,7 @@
         }
     </style>
     <script type="application/ld+json">
-{"@context": "https://schema.org", "@type": "VisualArtwork", "name": "Frame Sculpting · 2021", "url": "https://ionaere.com/gallery/glass-lamp-sculpture/", "image": "https://ionaere.com/img/opt/2024-12-Arthemii-ionaere-lamp-fgj-1600.jpg?v=3", "description": "A suspended light sculpture from the Frame Sculpting series, made in the same mixed stained-glass technique as its 2020 predecessor. Slumped coloured glass is set into a metal frame with lighting built inside; the piece is designed to hang from the ceiling.", "artform": "Stained glass", "artMedium": "Glass", "creator": {"@type": "Person", "@id": "https://ionaere.com/#artist", "name": "Arthemii Ionaere", "url": "https://ionaere.com/"}}
+{"@context": "https://schema.org", "@type": "VisualArtwork", "name": "Frame Sculpting · 2021", "url": "https://ionaere.com/gallery/glass-lamp-sculpture/", "image": "https://ionaere.com/img/opt/2024-12-Arthemii-ionaere-lamp-fgj-1600.jpg?v=4", "description": "A suspended light sculpture from the Frame Sculpting series, made in the same mixed stained-glass technique as its 2020 predecessor. Slumped coloured glass is set into a metal frame with lighting built inside; the piece is designed to hang from the ceiling.", "artform": "Stained glass", "artMedium": "Glass", "creator": {"@type": "Person", "@id": "https://ionaere.com/#artist", "name": "Arthemii Ionaere", "url": "https://ionaere.com/"}}
     </script>
 </head>
 <body>
@@ -88,7 +88,7 @@
             <div class="container" style="max-width:1000px">
                 <a href="../" style="font-size:0.875rem;color:var(--text-secondary);display:inline-block;margin-bottom:var(--spacing-md)">&larr; Back to Gallery</a>
                 <div class="photo-view" style="border-radius:12px;overflow:hidden;margin-bottom:var(--spacing-md);background:var(--bg-alt)">
-                    <picture><source type="image/webp" srcset="../../img/opt/2024-12-Arthemii-ionaere-lamp-fgj-800.webp?v=3 800w, ../../img/opt/2024-12-Arthemii-ionaere-lamp-fgj-1600.webp?v=3 1600w, ../../img/opt/2024-12-Arthemii-ionaere-lamp-fgj-2400.webp?v=3 2400w" sizes="(max-width: 1000px) 100vw, 1000px"><img src="../../img/opt/2024-12-Arthemii-ionaere-lamp-fgj-1600.jpg?v=3" alt="Frame Sculpting · 2021 — Arthemii Ionaere" style="width:100%;display:block"></picture>
+                    <picture><source type="image/webp" srcset="../../img/opt/2024-12-Arthemii-ionaere-lamp-fgj-800.webp?v=4 800w, ../../img/opt/2024-12-Arthemii-ionaere-lamp-fgj-1600.webp?v=4 1600w, ../../img/opt/2024-12-Arthemii-ionaere-lamp-fgj-2400.webp?v=4 2400w" sizes="(max-width: 1000px) 100vw, 1000px"><img src="../../img/opt/2024-12-Arthemii-ionaere-lamp-fgj-1600.jpg?v=4" alt="Frame Sculpting · 2021 — Arthemii Ionaere" style="width:100%;display:block"></picture>
                     <a class="photo-view__arrow photo-view__arrow--prev" href="../prism-sculpture/" rel="prev" aria-label="Previous photo: Falling Shadows at Enter the Void"><svg viewBox="0 0 24 24" aria-hidden="true"><path d="M15 5l-7 7 7 7"/></svg></a>
                     <a class="photo-view__arrow photo-view__arrow--next" href="../glass-artwork-detail/" rel="next" aria-label="Next photo: Frame Sculpting · 2018"><svg viewBox="0 0 24 24" aria-hidden="true"><path d="M9 5l7 7-7 7"/></svg></a>
                 </div>

diff --git a/index.html b/index.html
@@ -3456,7 +3456,7 @@
         <div class="section__divider"></div>
 
         <!-- ========== GALLERY ========== -->
-        <section class="section" id="gallery" data-thumbs="img/opt/2024-12-Arthemii-Ionaere-visual-light-installation-with-deep-coloured-shado-scaled-800.webp|img/opt/2024-12-Arthemii-ionaere-lamp-fgj-800.webp?v=3|img/opt/2024-12-Arthemii-Ionaere-Shteryit-800.webp|img/opt/2024-12-IMG_9199-Enhanced-NR-scaled-800.webp|img/opt/2024-12-IMG_9484-Enhanced-NR-scaled-800.webp|img/opt/2024-05-IMG_0179-scaled-800.webp?v=2|img/opt/2024-05-IMG_7198-scaled-800.webp?v=3" data-thumb="img/opt/2024-12-Arthemii-Ionaere-visual-light-installation-with-deep-coloured-shado-scaled-800.webp">
+        <section class="section" id="gallery" data-thumbs="img/opt/2024-12-Arthemii-Ionaere-visual-light-installation-with-deep-coloured-shado-scaled-800.webp|img/opt/2024-12-Arthemii-ionaere-lamp-fgj-800.webp?v=4|img/opt/2024-12-Arthemii-Ionaere-Shteryit-800.webp|img/opt/2024-12-IMG_9199-Enhanced-NR-scaled-800.webp|img/opt/2024-12-IMG_9484-Enhanced-NR-scaled-800.webp|img/opt/2024-05-IMG_0179-scaled-800.webp?v=2|img/opt/2024-05-IMG_7198-scaled-800.webp?v=3" data-thumb="img/opt/2024-12-Arthemii-Ionaere-visual-light-installation-with-deep-coloured-shado-scaled-800.webp">
             <div class="container">
                 <header class="section__header reveal">
                     <div class="section__label" data-i18n="gallery_label">Gallery</div>
@@ -3476,7 +3476,7 @@
                     </div>
                     <div class="gallery__row gallery__row--wide">
                         <div class="gallery__item" style="--r:1.333"><picture><source type="image/webp" data-srcset="img/opt/2024-12-Arthemii-Ionaere-prizmas-800.webp 800w, img/opt/2024-12-Arthemii-Ionaere-prizmas-1600.webp 1600w, img/opt/2024-12-Arthemii-Ionaere-prizmas-2400.webp 2400w" sizes="(max-width: 640px) 90vw, (max-width: 1024px) 50vw, 800px"><img data-src="img/opt/2024-12-Arthemii-Ionaere-prizmas-1600.jpg" alt="Prism sculpture — stained glass by Arthemii Ionaere" loading="lazy" decoding="async"></picture><span class="gallery__caption">Falling Shadows at Enter the Void <span>· 2023</span></span></div>
-                        <div class="gallery__item" style="--r:1.34"><picture><source type="image/webp" data-srcset="img/opt/2024-12-Arthemii-ionaere-lamp-fgj-800.webp?v=3 800w, img/opt/2024-12-Arthemii-ionaere-lamp-fgj-1600.webp?v=3 1600w, img/opt/2024-12-Arthemii-ionaere-lamp-fgj-2400.webp?v=3 2400w" sizes="(max-width: 640px) 90vw, (max-width: 1024px) 50vw, 800px"><img data-src="img/opt/2024-12-Arthemii-ionaere-lamp-fgj-1600.jpg?v=3" alt="Glass lamp sculpture — stained glass by Arthemii Ionaere" loading="lazy" decoding="async"></picture><span class="gallery__caption">Frame Sculpting · 2021</span></div>
+                        <div class="gallery__item" style="--r:1.34"><picture><source type="image/webp" data-srcset="img/opt/2024-12-Arthemii-ionaere-lamp-fgj-800.webp?v=4 800w, img/opt/2024-12-Arthemii-ionaere-lamp-fgj-1600.webp?v=4 1600w, img/opt/2024-12-Arthemii-ionaere-lamp-fgj-2400.webp?v=4 2400w" sizes="(max-width: 640px) 90vw, (max-width: 1024px) 50vw, 800px"><img data-src="img/opt/2024-12-Arthemii-ionaere-lamp-fgj-1600.jpg?v=4" alt="Glass lamp sculpture — stained glass by Arthemii Ionaere" loading="lazy" decoding="async"></picture><span class="gallery__caption">Frame Sculpting · 2021</span></div>
                         <div class="gallery__item" style="--r:1.333"><picture><source type="image/webp" data-srcset="img/opt/2024-02-06C52AD8-82B2-46BB-B951-3B6548D050B4-800.webp 800w, img/opt/2024-02-06C52AD8-82B2-46BB-B951-3B6548D050B4-1600.webp 1600w, img/opt/2024-02-06C52AD8-82B2-46BB-B951-3B6548D050B4-2400.webp 2400w" sizes="(max-width: 640px) 90vw, (max-width: 1024px) 50vw, 800px"><img data-src="img/opt/2024-02-06C52AD8-82B2-46BB-B951-3B6548D050B4-1600.jpg" alt="Glass artwork detail — stained glass by Arthemii Ionaere" loading="lazy" decoding="async"></picture><span class="gallery__caption">Frame Sculpting · 2018</span></div>
                     </div>
                     <div class="gallery__row gallery__row--wide">

diff --git a/fr/gallery/index.html b/fr/gallery/index.html
@@ -229,7 +229,7 @@
                         <div class="gslide__count" aria-hidden="true">15 / 26</div>
                     </article>
                     <article class="gslide" style="--r:1.34">
-                        <div class="gslide__frame"><a class="gslide__media" href="glass-lamp-sculpture/"><picture><source type="image/webp" srcset="../../img/opt/2024-12-Arthemii-ionaere-lamp-fgj-800.webp?v=3 800w, ../../img/opt/2024-12-Arthemii-ionaere-lamp-fgj-1600.webp?v=3 1600w, ../../img/opt/2024-12-Arthemii-ionaere-lamp-fgj-2400.webp?v=3 2400w" sizes="(max-width: 768px) 92vw, 80vw"><img src="../../img/opt/2024-12-Arthemii-ionaere-lamp-fgj-1600.jpg?v=3" alt="Frame Sculpting · 2021 — Arthemii Ionaere" loading="lazy" decoding="async"></picture></a>
+                        <div class="gslide__frame"><a class="gslide__media" href="glass-lamp-sculpture/"><picture><source type="image/webp" srcset="../../img/opt/2024-12-Arthemii-ionaere-lamp-fgj-800.webp?v=4 800w, ../../img/opt/2024-12-Arthemii-ionaere-lamp-fgj-1600.webp?v=4 1600w, ../../img/opt/2024-12-Arthemii-ionaere-lamp-fgj-2400.webp?v=4 2400w" sizes="(max-width: 768px) 92vw, 80vw"><img src="../../img/opt/2024-12-Arthemii-ionaere-lamp-fgj-1600.jpg?v=4" alt="Frame Sculpting · 2021 — Arthemii Ionaere" loading="lazy" decoding="async"></picture></a>
                             <div class="gslide__title"><span class="gslide__name">Frame Sculpting</span><span class="gslide__year">2021</span></div>
                             <div class="gslide__title gslide__title--sat" aria-hidden="true"><span class="gslide__name">Frame Sculpting</span><span class="gslide__year">2021</span></div>
                             <div class="gslide__desc"><p class="gslide__text">Une sculpture lumineuse suspendue de la série Frame Sculpting, réalisée selon la même technique mixte que sa devancière de 2020. Du verre coloré thermoformé est serti dans une structure métallique à éclairage intégré ; l&#x27;œuvre est conçue pour être suspendue au plafond.</p><p class="gslide__meta">2021 · env. 170 × 30–40 cm · laiton, acier, verre thermoformé, éclairage intégré</p></div>

diff --git a/it/gallery/index.html b/it/gallery/index.html
@@ -229,7 +229,7 @@
                         <div class="gslide__count" aria-hidden="true">15 / 26</div>
                     </article>
                     <article class="gslide" style="--r:1.34">
-                        <div class="gslide__frame"><a class="gslide__media" href="glass-lamp-sculpture/"><picture><source type="image/webp" srcset="../../img/opt/2024-12-Arthemii-ionaere-lamp-fgj-800.webp?v=3 800w, ../../img/opt/2024-12-Arthemii-ionaere-lamp-fgj-1600.webp?v=3 1600w, ../../img/opt/2024-12-Arthemii-ionaere-lamp-fgj-2400.webp?v=3 2400w" sizes="(max-width: 768px) 92vw, 80vw"><img src="../../img/opt/2024-12-Arthemii-ionaere-lamp-fgj-1600.jpg?v=3" alt="Frame Sculpting · 2021 — Arthemii Ionaere" loading="lazy" decoding="async"></picture></a>
+                        <div class="gslide__frame"><a class="gslide__media" href="glass-lamp-sculpture/"><picture><source type="image/webp" srcset="../../img/opt/2024-12-Arthemii-ionaere-lamp-fgj-800.webp?v=4 800w, ../../img/opt/2024-12-Arthemii-ionaere-lamp-fgj-1600.webp?v=4 1600w, ../../img/opt/2024-12-Arthemii-ionaere-lamp-fgj-2400.webp?v=4 2400w" sizes="(max-width: 768px) 92vw, 80vw"><img src="../../img/opt/2024-12-Arthemii-ionaere-lamp-fgj-1600.jpg?v=4" alt="Frame Sculpting · 2021 — Arthemii Ionaere" loading="lazy" decoding="async"></picture></a>
                             <div class="gslide__title"><span class="gslide__name">Frame Sculpting</span><span class="gslide__year">2021</span></div>
                             <div class="gslide__title gslide__title--sat" aria-hidden="true"><span class="gslide__name">Frame Sculpting</span><span class="gslide__year">2021</span></div>
                             <div class="gslide__desc"><p class="gslide__text">Una scultura luminosa sospesa della serie Frame Sculpting, realizzata con la stessa tecnica mista della precedente del 2020. Vetro colorato curvato è incastonato in una struttura metallica con illuminazione integrata; l&#x27;opera è pensata per essere appesa al soffitto.</p><p class="gslide__meta">2021 · ca. 170 × 30–40 cm · ottone, acciaio, vetro curvato, illuminazione integrata</p></div>
